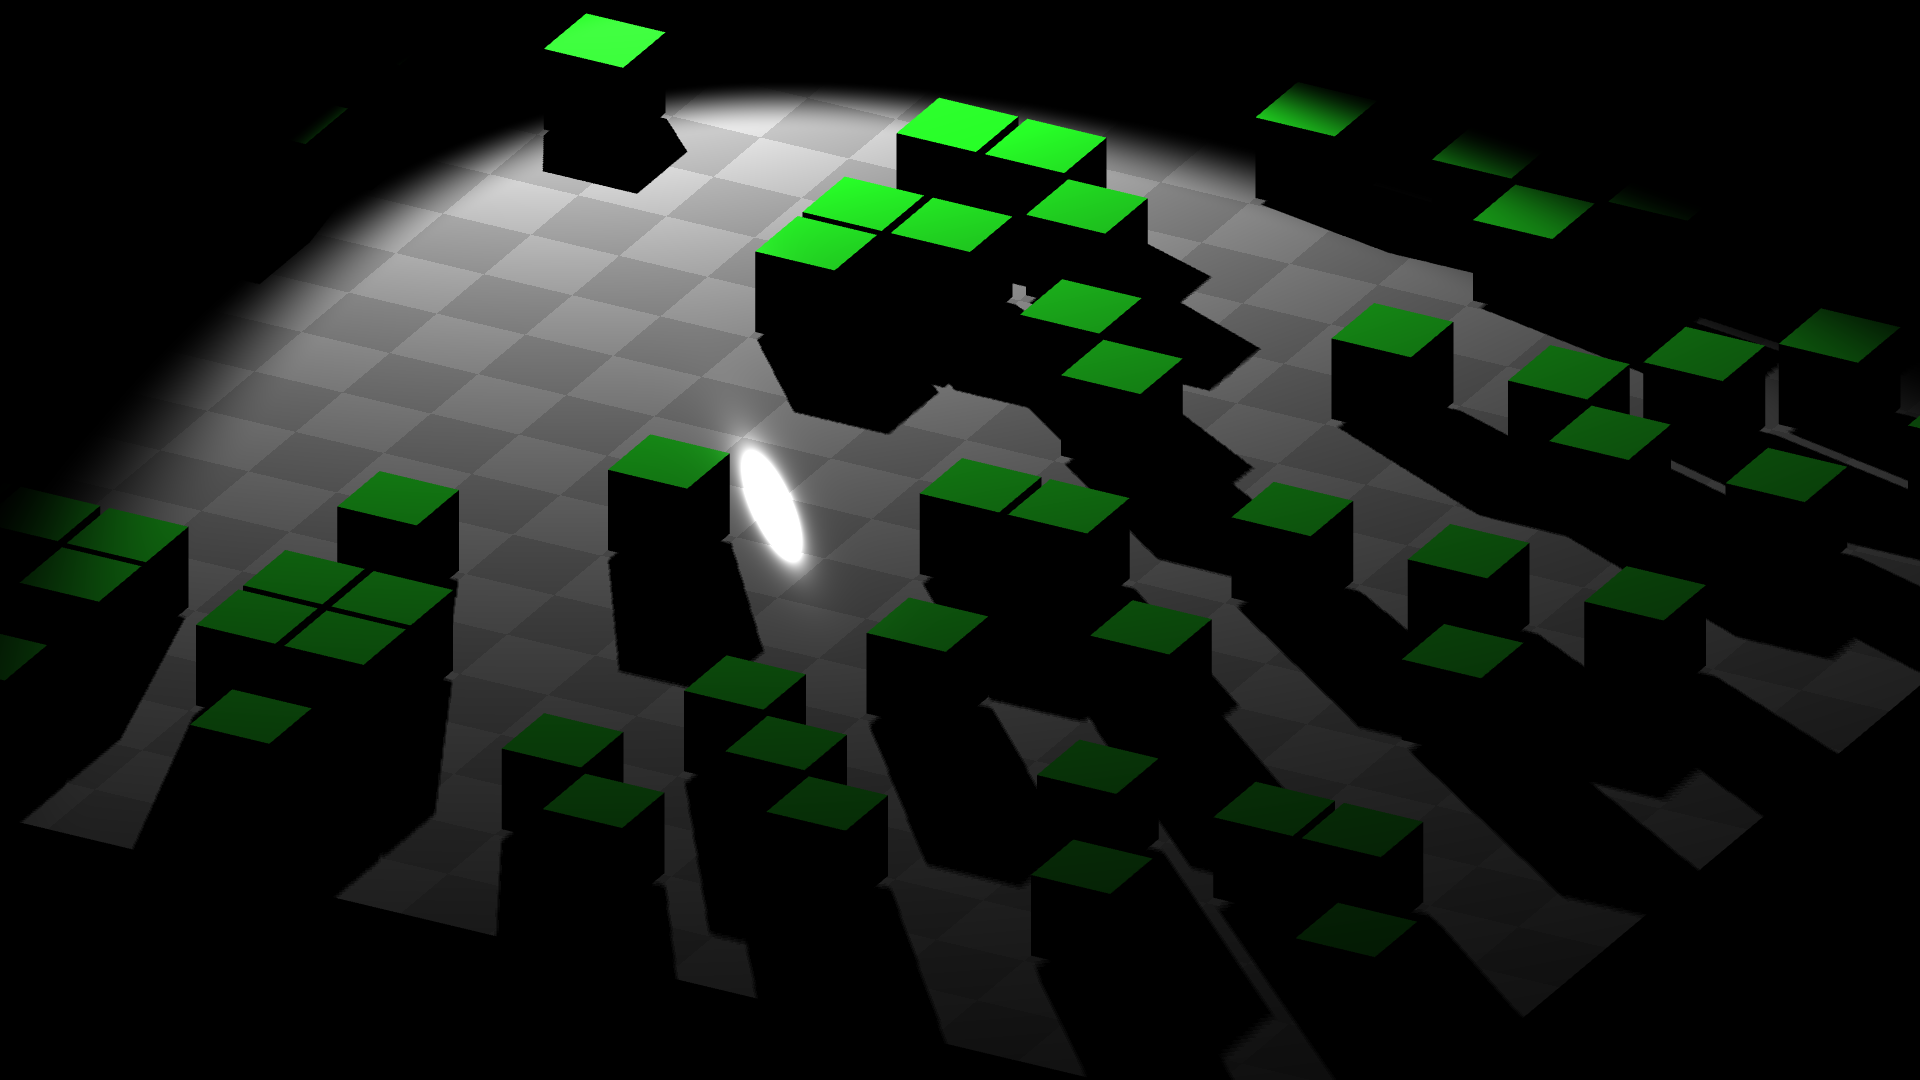
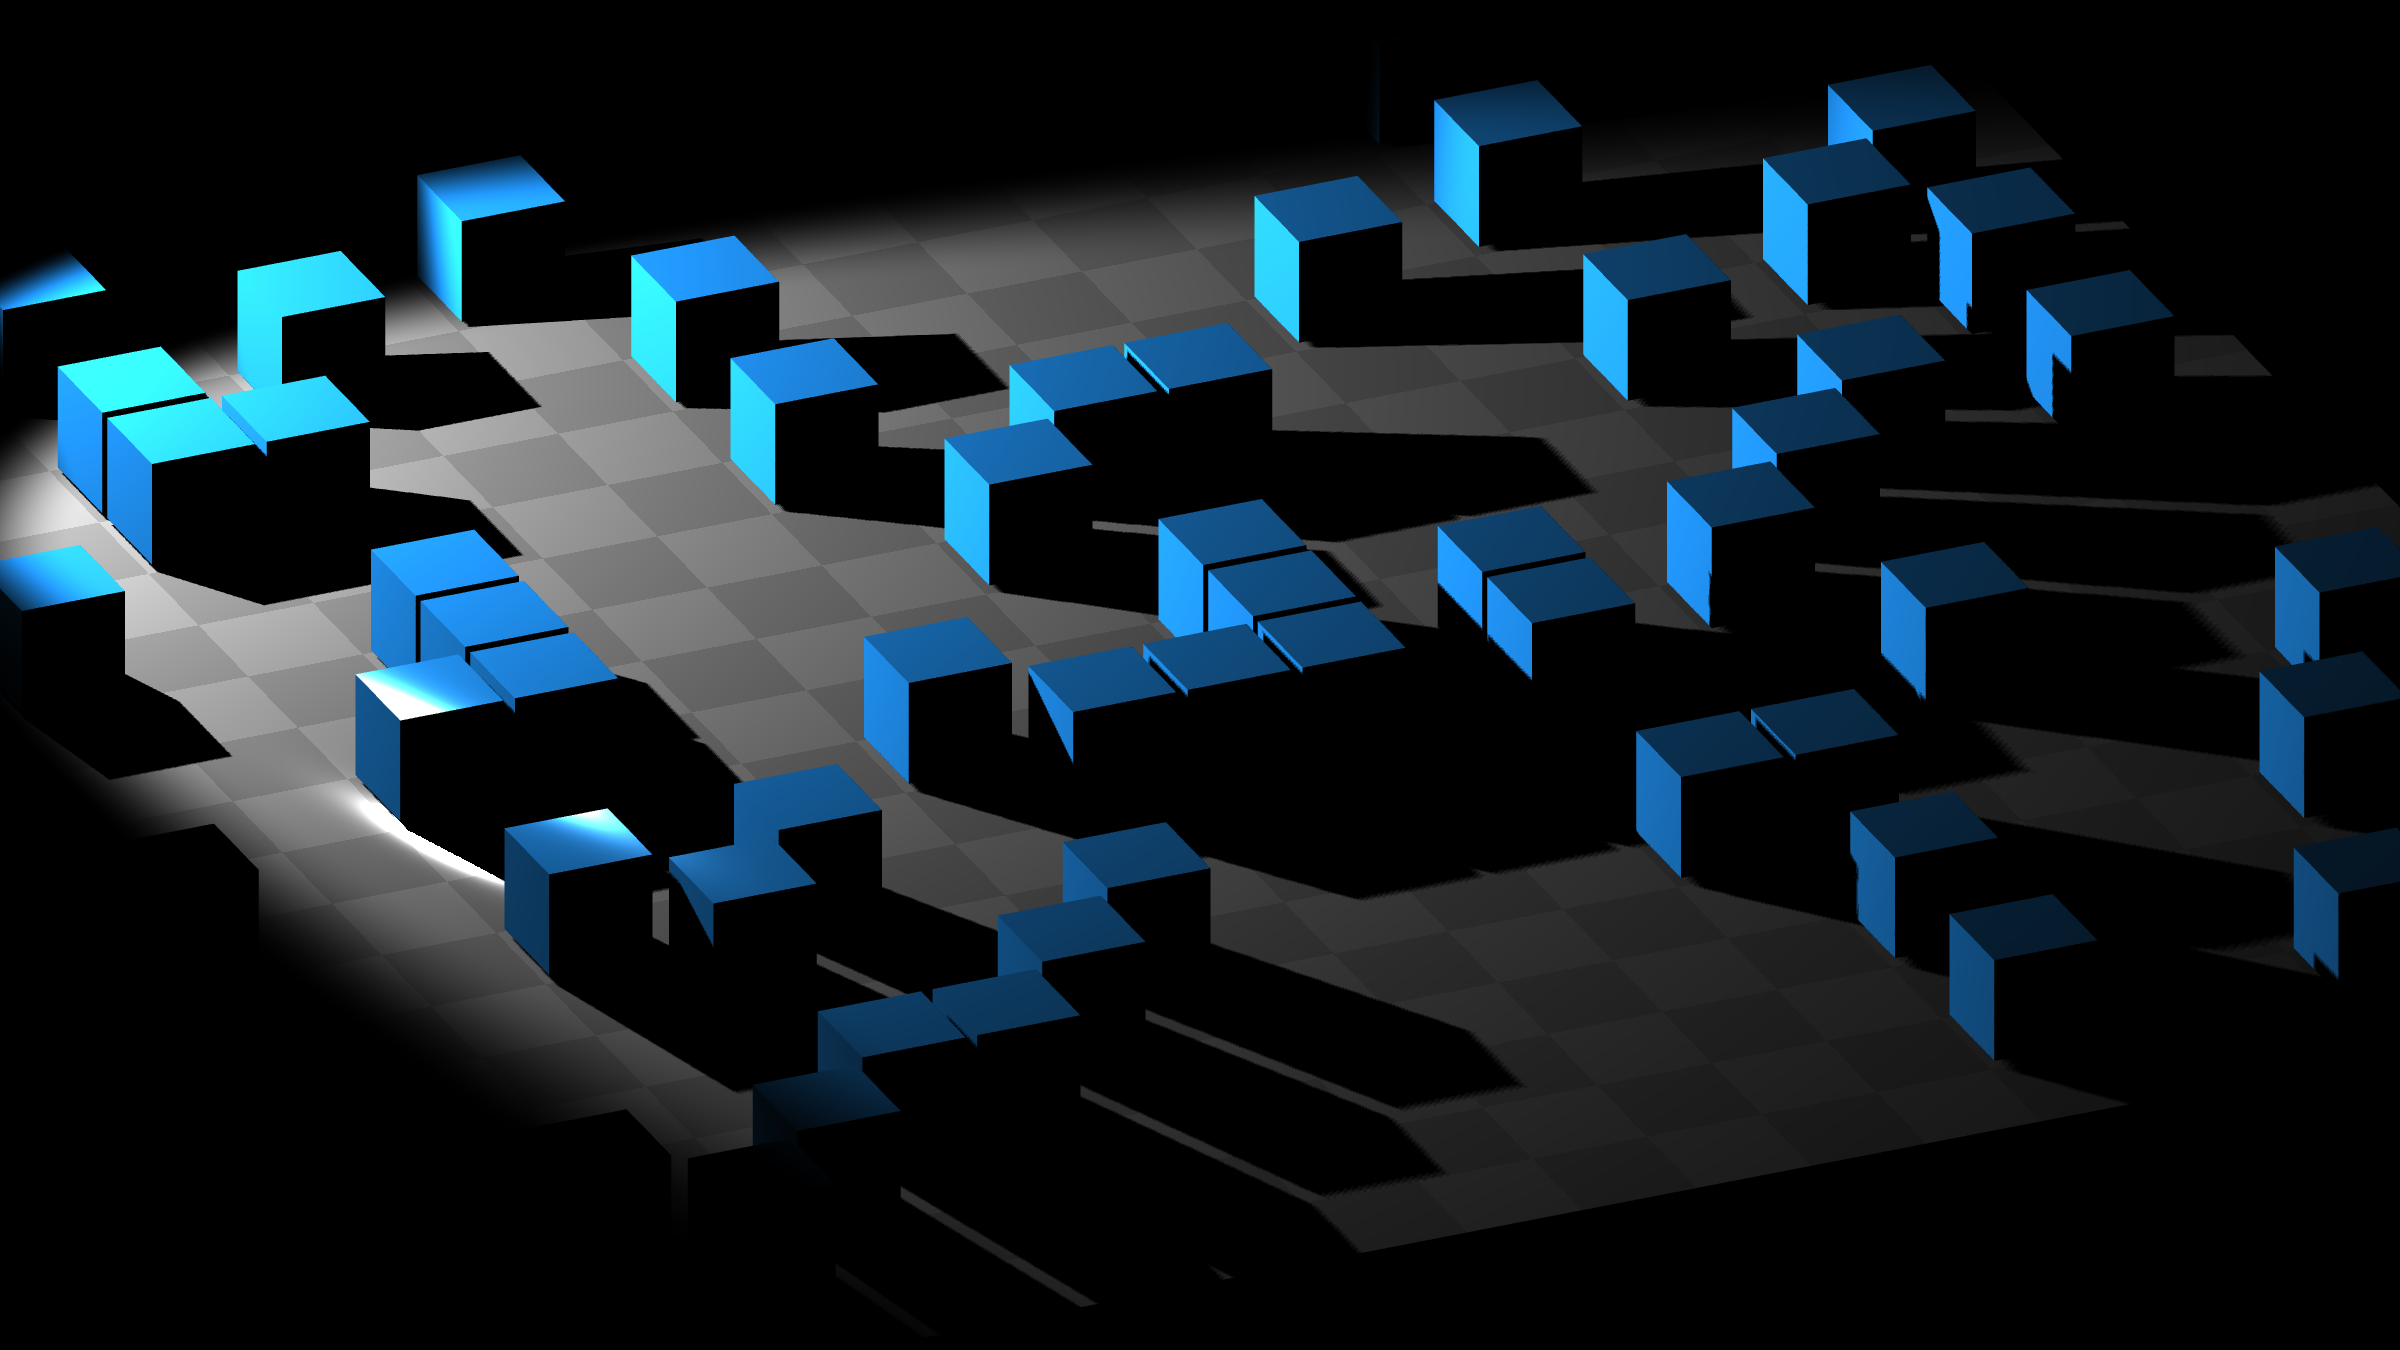
平行投影のサンプルを調整

diff --git a/samples/camera_orthographic.html b/samples/camera_orthographic.html
@@ -1,4 +1,3 @@
-<!DOCTYPE html>
 <html>
 <head>
   <meta charset="utf-8"/>
@@ -59,7 +58,11 @@
       // マス目を作成
       {
         // 立方体のマテリアルとジオメトリを作成
-        const material = new THREE.MeshStandardMaterial({color: 0x22DD22, roughness: 0.1, metalness: 0.2});
+        const material = new THREE.MeshStandardMaterial({
+          color: 0x2299FF,
+          roughness: 0.1,
+          metalness: 0.2
+        });
         const geometry = new THREE.BoxGeometry(45, 45, 45);
 
         // 立方体を複数作成しランダムに配置

diff --git a/docs/camera_variation.md b/docs/camera_variation.md
@@ -62,6 +62,7 @@ const camera = new THREE.OrthographicCamera(-480, +480, 270, -270, 1, 1000);
 
 サンプルのように規則正しく3Dオブジェクトを配置すると、平行投影のゲームのような表現が得られます。 
 
+![](../imgs/camera_orthographic_1.png)
 
 ## 共通の設定：クリッピング 
  
